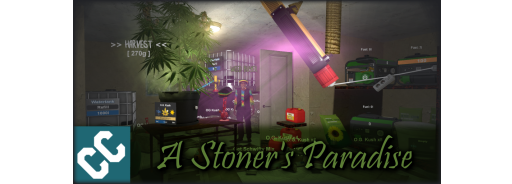
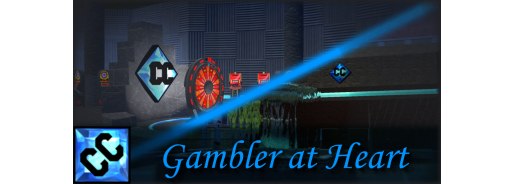
preloading content

diff --git a/README.md b/README.md
@@ -8,21 +8,19 @@ Join our Discord by clicking [here](https://discord.gg/H3ztBSer).
 
 <iframe src="https://discord.com/widget?id=810654201709461514&theme=dark" width="350" height="500" allowtransparency="true" frameborder="0" sandbox="allow-popups allow-popups-to-escape-sandbox allow-same-origin allow-scripts"></iframe>
 
-## CCRP: A Stoner's Paradise Update
+## CCRP: Gambler at Heart Update
 
-CrystalClear RP's inaugural major update introduces a simplified version of [Zero's Grow OP](https://www.gmodstore.com/market/view/6326) to the server alongside other changes.
+In this major update, CrystalClear RP's casino has merged to a new building alongside other changes.
 
 - Difference log:
 
 ```
 Changes
-+ A Stoner's Paradise Update - Zero's Grow OP is introduced.
-+ Lightsabers are now fixed to remove unintended RDM.
-+ Force healing now restores all health rather than being capped off at 100.
-+ The pocket tool is now restricted to printers and weed blocks.
++ Gambler at Heart Update - A new casino building replaces the bank area.
++ The bank vault has moved to the PD.
 
 Removals
-- Force combustion and lighting have been removed.
+- The bank building is no longer accessible.
 ```
 
 Patch notes may be found at our [Discord server](https://discord.gg/H3ztBSer).
